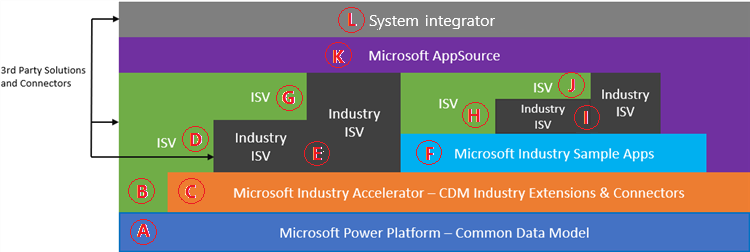
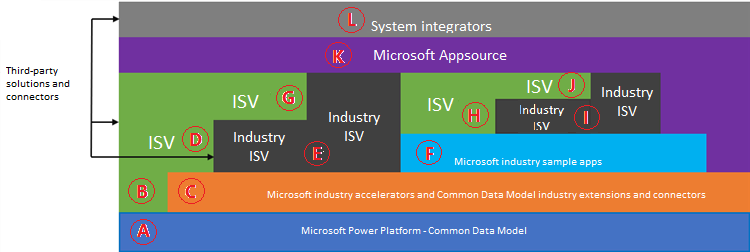
Updates

diff --git a/common-data-model/industry-accelerators.md b/common-data-model/industry-accelerators.md
@@ -12,8 +12,8 @@ ms.author: smithc
 # Overview of industry solution accelerators
 
 The Common Data Model enables horizontal consistency for customers' business data, making it easier for them to create value from that data. However, many customers and partners want solutions and platforms that are tailored for their industry. Microsoft is working closely with representatives from various industries to make the Common Data Model more relevant to them, by creating industry solution accelerators.
-<!--This is the only article in the conceptual section that refers to Microsoft Power Platform. Is that the branding we want to move toward throughout the articles? Should we define it here, or maybe link to the main powerplatform page on Msft.com?-->
-[Industry solution accelerators](https://community.dynamics.com/365/b/dynamics365isvsuccess/archive/2018/08/01/dynamics-365-brings-industry-focus-through-the-microsoft-power-platform-and-solution-accelerators) are foundational components within the Microsoft Power Platform and Dynamics 365 that enable ISVs and other solution providers to quickly build industry vertical solutions. The accelerators extend the Common Data Model to include new entities to support a data schema for concepts within specific industries. Microsoft is currently focused on delivering accelerators for the following industries, with others to come:
+
+[Industry solution accelerators](https://community.dynamics.com/365/b/dynamics365isvsuccess/archive/2018/08/01/dynamics-365-brings-industry-focus-through-the-microsoft-power-platform-and-solution-accelerators) are foundational components within the [Microsoft Power Platform](https://docs.microsoft.com/power-platform/) and Dynamics 365 that enable ISVs and other solution providers to quickly build industry vertical solutions. The accelerators extend the Common Data Model to include new entities to support a data schema for concepts within specific industries. Microsoft is currently focused on delivering accelerators for the following industries, with others to come:
 
 -	[Automotive](automotive-accelerator.md)
 -	[Banking](banking-accelerator.md)
@@ -23,13 +23,14 @@ The Common Data Model enables horizontal consistency for customers' business dat
 -	Media
 
 ## ISV opportunity view
+
 Microsoft Power Platform combines with industry solution accelerators to create a unique opportunity for ISVs to provide solutions for different scenarios and levels of development. This image shows the opportunities for ISVs who build on top of the platform and the solution accelerators.
-<!--About the text labels in the following graphic: "SI" should be "System integrators." "Microsoft Industry Sample Apps" should be "Microsoft industry sample apps." "Microsoft Industry Accelerator - CDM Industry Extensions & Connectors" should be "Microsoft industry accelerators and Common Data Model industry extensions and connectors." I don't know what the hyphen in the bottommost label is trying to say. Should it be "Microsoft Power Platform (Common Data Model)", "Common Data Model (Microsoft Power Platform)", or can it simply be "Common Data Model"? Also, the callout should be "Third-party solutions and connectors".-->
+
 ![ISV opportunity view](media/isv-layered-opportunity_mockup.png "ISV opportunity view")
-<!--What do you think of organizing the explanatory text this way? I was going to suggest adding numbers off to the side of the layers, but then I realized that the point of the graphic is actually conveyed by the color blocks, not so much the layers.-->
+
 |           |            |
 |-----------|------------|
-| **A** | The Common Data Model is the foundation on which the Microsoft Power Platform accelerators and other solutions are built or extended from. <!--Edit okay? As noted above, I was confused by what the hyphen between Microsoft Power Platform and the Common Data Model was signifying.--> |
+| **A** | The Common Data Model is the foundation on which the Microsoft Power Platform accelerators and other solutions are built or extended. |
 | **B**, **C** | ISV solutions extend the Common Data Model, as do industry solution accelerators from Microsoft and its partners.|
 | **D**,&nbsp;**E**,&nbsp;**F** | ISVs, industry ISVs, and industry sample apps from Microsoft all extend the Microsoft industry solution accelerators.|
 | **G** | ISVs further extend industry ISV solutions that were built on top of the Microsoft industry solution accelerator.|
@@ -40,9 +41,11 @@ Microsoft Power Platform combines with industry solution accelerators to create 
 
 As the image shows, from the bottom level on up through the stack, ISVs have multiple opportunities to deliver industry-focused apps and solutions. These opportunities exist whether you're building directly on Power Apps (Common Data Service) or Dynamics 365 apps. Each level further expands the opportunities at the next level up. The accelerators provide opportunities to rapidly build vertical, industry-focused apps, in addition to enabling system integrators to help scale and support these new apps and solutions.
 
-<!--Please check the following link. I thought it would be nice to point the reader somewhere, but maybe there's a better place than this one specifically for accelerators?-->
+
 ## Additional accelerators
-We continue to release new and updated accelerators for the industries identified earlier. Check out [our release plans](https://dynamics.microsoft.com/en-us/business-applications/product-updates/) for the most recent releases!
+
+We continue to release new and updated accelerators for the industries identified earlier. Check out [our release plans](https://dynamics.microsoft.com/business-applications/product-updates/) for the most recent releases!
 
 ## Want to help?
+
 If you're interested in talking with Microsoft about the industry solution accelerators, [sign up](https://experienceisv.microsoftcrmportals.com/engage/) to share your feedback, suggestions, and challenges.

diff --git a/common-data-model/index.md b/common-data-model/index.md
@@ -18,7 +18,7 @@ The Common Data Model simplifies this process by providing a shared data languag
 
 ## What's in the Common Data Model?
 
-In addition to the metadata system, the Common Data Model includes a set of standardized, extensible data schemas that Microsoft and its partners have published. This collection of predefined schemas includes entities, attributes, semantic metadata, and relationships. The schemas represent commonly used concepts and activities, such as **Account** and **Campaign**, to simplify the creation, aggregation, and analysis of data. This graphic shows some elements of the standard entities. More information: [Common Data Model repository on GitHub](https://aka.ms/cdmrepo) <!--note from editor: In the following graphic, the callout line from "Account" needs to be erased.-->
+In addition to the metadata system, the Common Data Model includes a set of standardized, extensible data schemas that Microsoft and its partners have published. This collection of predefined schemas includes entities, attributes, semantic metadata, and relationships. The schemas represent commonly used concepts and activities, such as **Account** and **Campaign**, to simplify the creation, aggregation, and analysis of data. This graphic shows some elements of the standard entities. More information: [Common Data Model repository on GitHub](https://aka.ms/cdmrepo)
 
 ![Common Data Model](media/cdm-entities-v1.png "Common Data Model")
 
